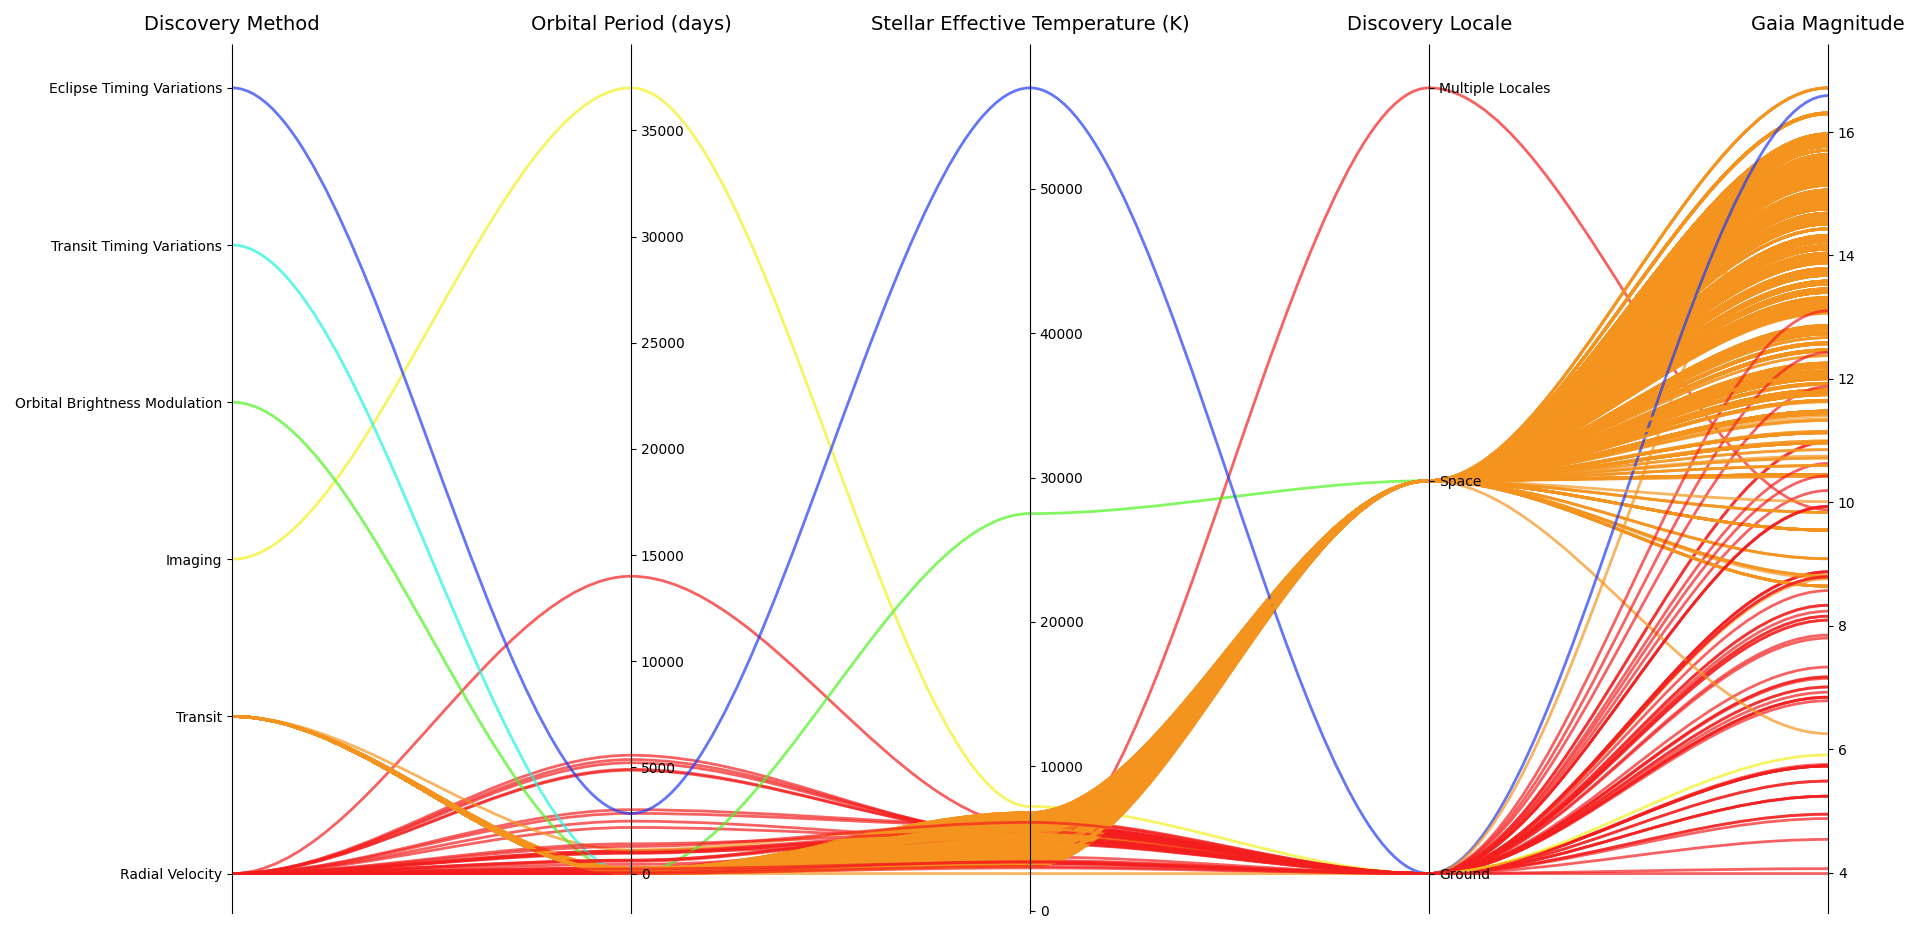
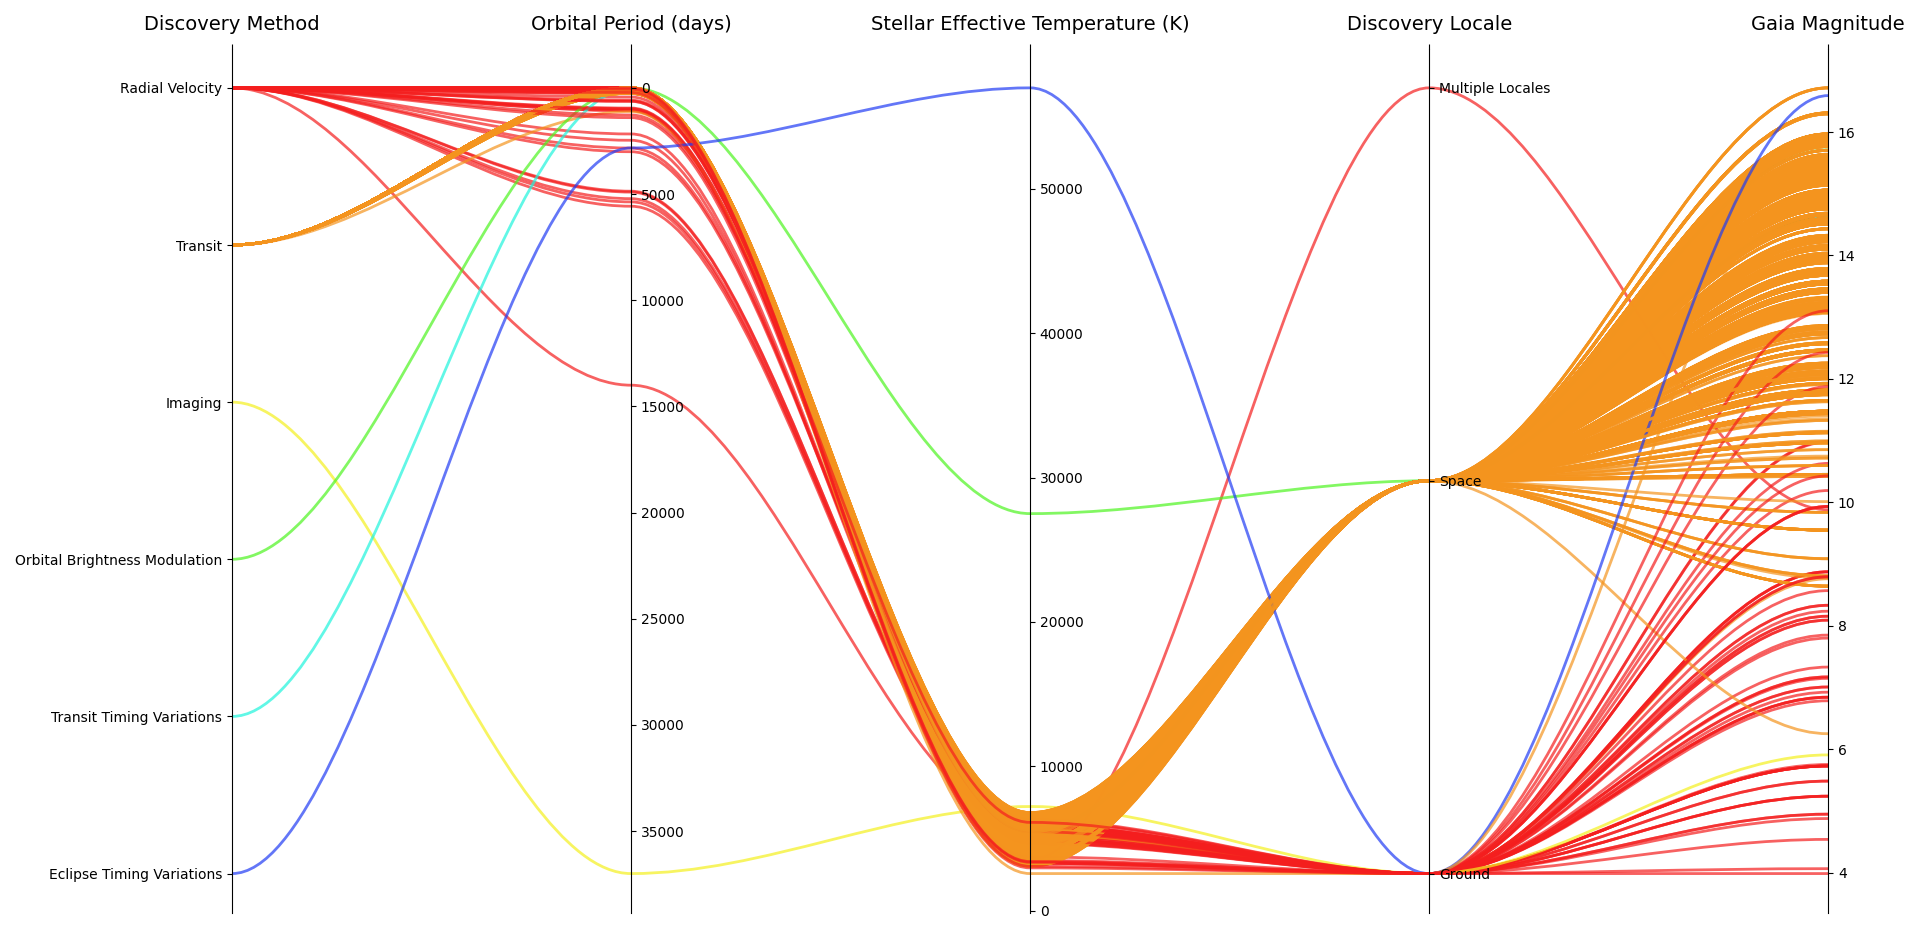
parallel python plotly

diff --git a/Plot_types/Parallel/Parallel_Python_plotly.py b/Plot_types/Parallel/Parallel_Python_plotly.py
@@ -1,0 +1,80 @@
+
+# Paths:
+path_data = "data/"
+
+# Packages:
+import numpy as np
+import pandas as pd
+import plotly.graph_objects as go
+from matplotlib.colors import LinearSegmentedColormap, to_hex
+from functools import reduce
+
+# Display options:
+pd.set_option("display.width", 1200)
+pd.set_option("display.max_columns", 300)
+pd.set_option("display.max_rows", 300)
+
+# Dataset:
+df = pd.read_csv(path_data + "nasa_exoplanets.csv")
+df_varnames = pd.read_csv(path_data + "nasa_exoplanets_var_names.csv")
+
+# Variables (the first variable must be categoric):
+my_vars = ["discoverymethod", "pl_orbper", "st_teff", "disc_locale", "sy_gaiamag"]
+my_vars_names = reduce(pd.DataFrame.append,
+                       map(lambda i: df_varnames[df_varnames["var"] == i], my_vars))
+my_vars_names = my_vars_names["var_name"].values.tolist()
+
+# Adapt the data:
+df = df.loc[df["pl_letter"] == "d"]
+df_plot = df[my_vars]
+df_plot = df_plot.dropna()
+df_plot = df_plot.reset_index(drop = True)
+
+# Plot:
+vars_plots = []
+for v, var in enumerate(my_vars):
+    if df_plot[var].dtype.kind not in ["i", "u", "f"]:
+        # Categorical variables:
+        vals_unique = df_plot[var].unique()
+        dic_var = dict([(val, c) for c, val in enumerate(vals_unique)])
+        vars_plots += [
+            dict(
+                tickvals = [i for i in range(len(vals_unique))],
+                ticktext = vals_unique,
+                label = my_vars_names[v],
+                values = [dic_var[i] for i in df_plot[var].tolist()]
+            )
+        ]
+    else:
+        # Numerical variables:
+        vars_plots += [
+            dict(
+                range = [min(df_plot[var]), max(df_plot[var])],
+                label = my_vars_names[v],
+                values = df_plot[var]
+            )
+        ]
+
+fig = go.Figure(
+    data = [
+        go.Parcoords(
+            dimensions = list(vars_plots)
+        )
+    ]
+)
+fig.update_layout(
+    font = dict(
+        size = 18
+    ),
+    plot_bgcolor = "white",
+    hoverlabel = dict(
+        font_size = 18,
+        font_family = "Rockwell"
+    ),
+    margin = {
+        "l": 250
+    }
+)
+fig.show()
+
+

diff --git a/Plot_types/Parallel/Parallel_Python_matplotlib.py b/Plot_types/Parallel/Parallel_Python_matplotlib.py
@@ -52,7 +52,7 @@ ymins -= dys*0.05
 ymaxs += dys*0.05
 
 # Reverse some axes for better visual:
-axes_to_reverse = []
+axes_to_reverse = [0, 1]
 for a in axes_to_reverse:
     ymaxs[a], ymins[a] = ymins[a], ymaxs[a]
 dys = ymaxs - ymins
@@ -73,7 +73,10 @@ fig, host_ax = plt.subplots(
     figsize = (20, 10),
     tight_layout = True
 )
+
+# Make the axes:
 axes = [host_ax] + [host_ax.twinx() for i in range(ym.shape[1] - 1)]
+dic_count = 0
 for i, ax in enumerate(axes):
     ax.set_ylim(
         bottom = ymins[i],
@@ -91,6 +94,15 @@ for i, ax in enumerate(axes):
                  i/(ym.shape[1] - 1)
              )
         )
+    if df_plot.iloc[:, i].dtype.kind not in ["i", "u", "f"]:
+        dic_var_i = dics_vars[dic_count]
+        ax.set_yticks(
+            range(len(dic_var_i))
+        )
+        ax.set_yticklabels(
+            [key_val for key_val in dics_vars[dic_count].keys()]
+        )
+        dic_count += 1
 host_ax.set_xlim(
     left = 0,
     right = ym.shape[1] - 1
@@ -107,6 +119,8 @@ host_ax.tick_params(
     which = "major",
     pad = 7
 )
+
+# Make the curves:
 host_ax.spines.right.set_visible(False)
 host_ax.xaxis.tick_top()
 for j in range(ym.shape[0]):
@@ -124,19 +138,5 @@ for j in range(ym.shape[0]):
         edgecolor = color_first_cat_var
     )
     host_ax.add_patch(patch)
-
-dic_count = 0
-for i, ax in enumerate(axes):
-    if df_plot.iloc[:, i].dtype.kind not in ["i", "u", "f"]:
-        dic_var_i = dics_vars[dic_count]
-        ax.set_yticks(
-            range(len(dic_var_i))
-        )
-        ax.set_yticklabels(
-            [key_val for key_val in dics_vars[dic_count].keys()]
-        )
-        dic_count += 1
-
-
 
 
